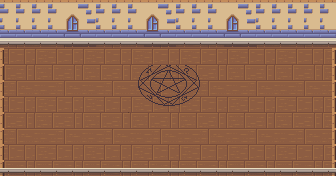
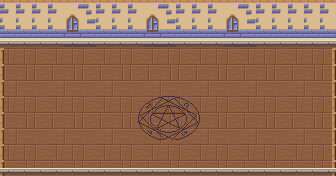
Keep the council-floor magic seal complete and clear of neighbouring atlas fragments

Changed region(s): [[0.3869, 0.3693, 0.5952, 0.7955]]

diff --git a/scripts/import_guild_pack.py b/scripts/import_guild_pack.py
@@ -85,7 +85,7 @@ for floor in range(3):
  # Native carpets are floor decorations and stay passable.
  if floor==0:paste(room,interior,(16,240,80,272),(136,60))
  elif floor==1:paste(room,interior,(0,272,112,368),(112,57))
- else:paste(room,objects,(48,16,128,64),(128,65))
+ else:paste(room,Image.open(OUT/'shrine.png').convert('RGBA'),(0,0,80,48),(128,92))
  room.save(PACK/f'floor{floor}.png')
 print('Imported',len(files),'original sheets, three floor shells and native exterior replacements.')
 
